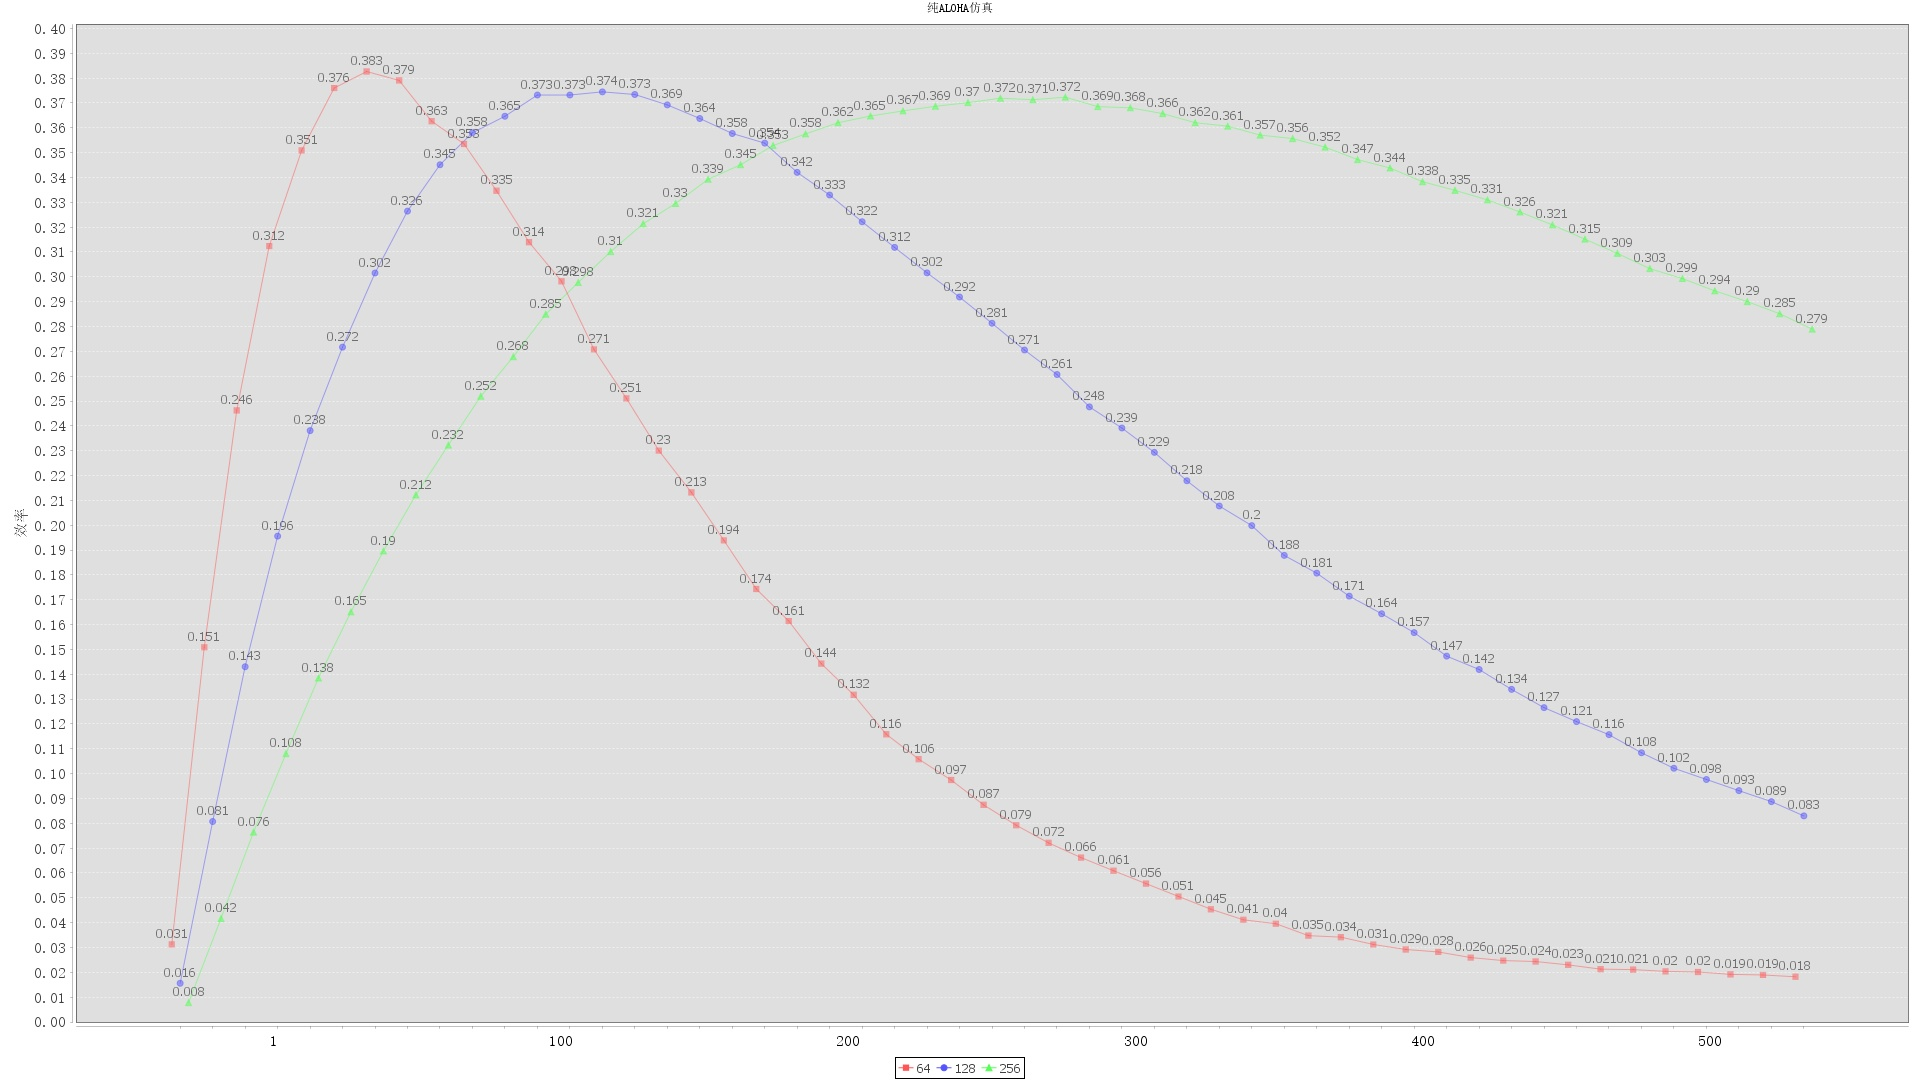
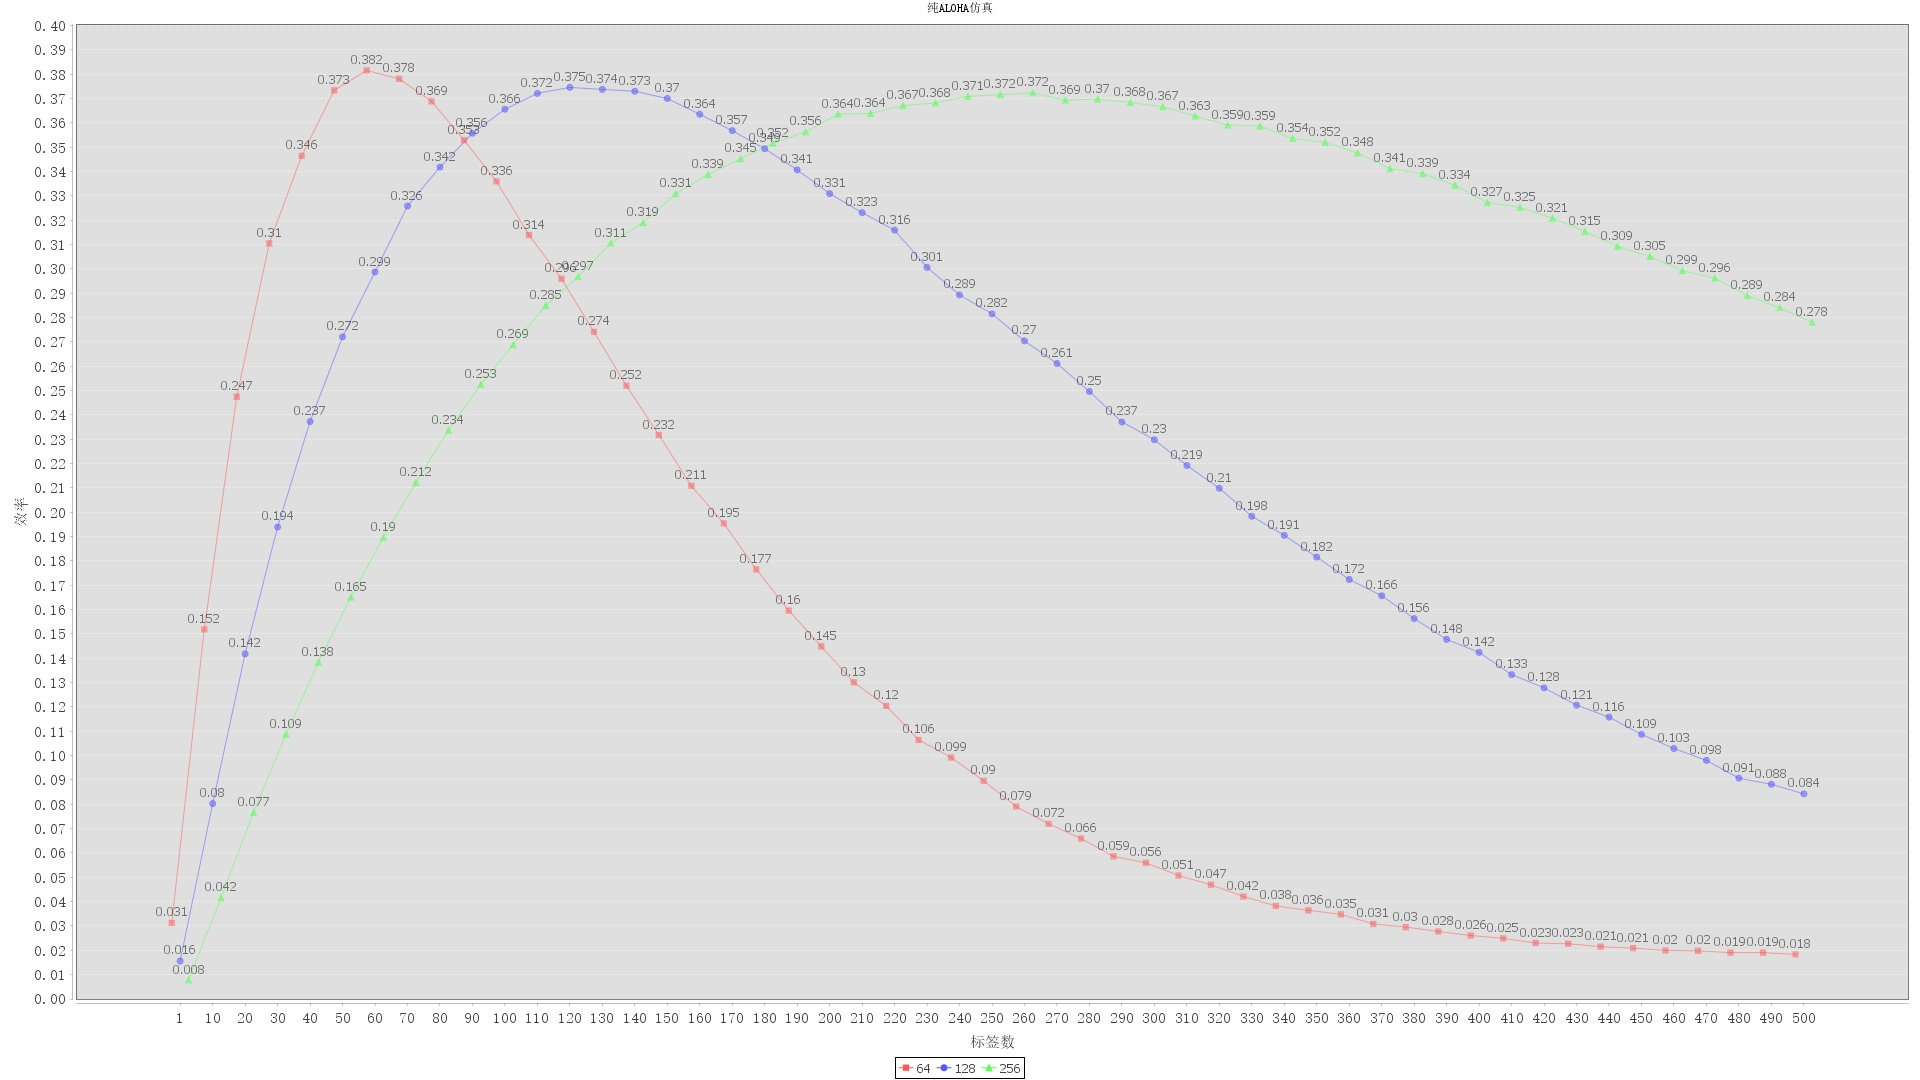
SA修改

diff --git a/src/Aloha/SA.java b/src/Aloha/SA.java
@@ -14,11 +14,12 @@ public class SA {
     public static int CT = 1000; // 每个值下做多少次实验
 
     public static void main(String[] args) {
-        Map<Integer, DataSet> map = new HashMap<>(); // key-> 帧大小 val-> 吞吐量和标签数目
+        Map<Integer, DataSet2SA> map = new HashMap<>(); // key-> 帧大小 val-> 吞吐量和标签数目
+        int size = 0 ;
         while (frameSize <=256) {  // 一帧大小
             ArrayList<Double> trough_put = new ArrayList<>();
-            ArrayList<Integer> tagNos = new ArrayList<>();
-            DataSet dataSet = new DataSet(trough_put, tagNos);
+            ArrayList<Integer> tagNums = new ArrayList<>();
+            DataSet2SA dataSet2SA = new DataSet2SA(trough_put, tagNums);
             while (dataSize <= 500) {
                 int i = 0;
                 double throughput = 0;
@@ -28,19 +29,20 @@ public class SA {
                     throughput += throughput(tags, frameSize);  //统计吞吐量
                 }
                 trough_put.add(throughput/CT);
-                tagNos.add(dataSize);
+                tagNums.add(dataSize);
                 if (dataSize == 1 ){
                     dataSize+=9;
                 }else {
                     dataSize+=10;
                 }
             }
-            map.put(frameSize, dataSet);
+            size = tagNums.size();
+            map.put(frameSize, dataSet2SA);
             frameSize = frameSize *2;
             dataSize = 1;
         }
-        CategoryDataset dataset = Utils.createDoubleDataset(map, 51);
-        JFreeChart freeChart = Utils.createChart(dataset, "纯ALOHA仿真", "标签数", "效率");
+        CategoryDataset dataset = Utils.createDoubleDataset(map, size);
+        JFreeChart freeChart = Utils.createChart(dataset, "时隙ALOHA仿真", "标签数", "效率");
         Utils.saveAsFile(freeChart, Utils.jpgFilePath + "\\pureAloha1.jpg");
 
     }
@@ -50,14 +52,12 @@ public class SA {
      *
      * @param tags      标签数目
      * @param frameSize 帧大小
-     * @return 写入随机数后的标签 按从小到大时隙排序
-     */
-    public static List<Tag> generateRandom(List<Tag> tags, int frameSize) {
+     * */
+    public static void generateRandom(List<Tag> tags, int frameSize) {
         for (Tag tag : tags) {
             tag.setNum((int) (Math.ceil(Math.random() * (frameSize -1))));
         }
         tags.sort(Comparator.comparingInt(Tag::getNum));
-        return tags;
     }
 
     public static double throughput(List<Tag> tags, int frameSize) {

diff --git a/src/Tree/ct.java b/src/Tree/ct.java
@@ -45,8 +45,8 @@ public class ct {
 
     public static void main(String[] args) {
         ct qt = new ct();
-        List<Integer> times = new ArrayList<Integer>();
-        List<Integer> all = new ArrayList<Integer>();
+        List<Integer> times = new ArrayList<Integer>();   // 节点数 花费总次数
+        List<Integer> TagNums = new ArrayList<Integer>();  //标签数量
         System.out.println("仿真次数");
         Scanner scanner = new Scanner(System.in);
         int count = scanner.nextInt();
@@ -54,15 +54,15 @@ public class ct {
             System.out.println("标签总数为");
             Scanner sc = new Scanner(System.in);
             int n = sc.nextInt();
-            all.add(n);
-            List<Tag> tags = CreateTag.createTags(n, tagSize);
-            List<String> signlist = new ArrayList<String>();
+            TagNums.add(n);
+            List<Tag> tags = CreateTag.createTags(n, tagSize);   // 仿真标签
+            List<String> signlist = new ArrayList<String>();  // 前缀栈
             String sign = "";// 二进制前缀
             CTResult value;//  返回值
-            int time = 0;// 次数
-            String commonPrefix = Utils.commonPrefix(tags);
+            int time = 0;// 标签数对应的查找次数
+            String commonPrefix = Utils.commonPrefix(tags);   // 公共前缀
             signlist.add(commonPrefix);
-            int success = 0;// 成功个数
+            int success = 0;// 已识别标签个数
             while (signlist.size() > 0) {
                 sign = signlist.get(0);
                 value = qt.seek(sign, tags);
@@ -84,7 +84,7 @@ public class ct {
             times.add(time);
             System.out.println("识别次数为" + time + "次，标签总数为：" + success + "  识别完成！");
         }
-        CategoryDataset intDataset = Utils.createIntDataset(all, times);
+        CategoryDataset intDataset = Utils.createIntDataset(TagNums, times);
         JFreeChart chart = Utils.createChart(intDataset, "碰撞树", "识别数量", "识别次数");
         Utils.saveAsFile(chart, Utils.jpgFilePath + "\\ct.jpg");
     }

diff --git a/src/Utils/Utils.java b/src/Utils/Utils.java
@@ -1,6 +1,6 @@
 package Utils;
 
-import Aloha.DataSet;
+import Aloha.DataSet2SA;
 import Aloha.Tag;
 import org.jfree.chart.ChartFactory;
 import org.jfree.chart.ChartUtilities;
@@ -145,11 +145,11 @@ public class Utils {
         }
         return defaultcategorydataset;
     }
-    public static CategoryDataset createDoubleDataset(Map<Integer, DataSet> map,int dataSize) {
+    public static CategoryDataset createDoubleDataset(Map<Integer, DataSet2SA> map, int dataSize) {
         DefaultCategoryDataset defaultcategorydataset = new DefaultCategoryDataset();
         for (int i = 0; i < dataSize; i++) {
-            for (Map.Entry<Integer, DataSet> entry : map.entrySet()) {
-                defaultcategorydataset.addValue(entry.getValue().getTrough_put().get(i),entry.getKey(),entry.getValue().getTagNos().get(i));
+            for (Map.Entry<Integer, DataSet2SA> entry : map.entrySet()) {
+                defaultcategorydataset.addValue(entry.getValue().getTrough_put().get(i),entry.getKey(),entry.getValue().getTagNums().get(i));
             }
         }
         return defaultcategorydataset;

diff --git a/src/Tree/DataSet2CT.java b/src/Tree/DataSet2CT.java
@@ -1,0 +1,33 @@
+package Tree;
+
+import java.util.ArrayList;
+import java.util.List;
+
+public class DataSet2CT {
+    List<Integer> times = new ArrayList<>();
+    List<Integer> tagNums = new ArrayList<>();
+
+    public DataSet2CT() {
+    }
+
+    public DataSet2CT(List<Integer> times, List<Integer> tagNums) {
+        this.times = times;
+        this.tagNums = tagNums;
+    }
+
+    public List<Integer> getTimes() {
+        return times;
+    }
+
+    public void setTimes(List<Integer> times) {
+        this.times = times;
+    }
+
+    public List<Integer> getTagNums() {
+        return tagNums;
+    }
+
+    public void setTagNums(List<Integer> tagNums) {
+        this.tagNums = tagNums;
+    }
+}

diff --git a/src/Aloha/DataSet2SA.java b/src/Aloha/DataSet2SA.java
@@ -1,0 +1,29 @@
+package Aloha;
+
+import java.util.ArrayList;
+
+public class DataSet2SA {
+    ArrayList<Double> trough_put;
+    ArrayList<Integer> TagNums;
+
+    public DataSet2SA(ArrayList<Double> trough_put, ArrayList<Integer> TagNums) {
+        this.trough_put = trough_put;
+        this.TagNums = TagNums;
+    }
+
+    public ArrayList<Double> getTrough_put() {
+        return trough_put;
+    }
+
+    public void setTrough_put(ArrayList<Double> trough_put) {
+        this.trough_put = trough_put;
+    }
+
+    public ArrayList<Integer> getTagNums() {
+        return TagNums;
+    }
+
+    public void setTagNums(ArrayList<Integer> tagNums) {
+        this.TagNums = tagNums;
+    }
+}
